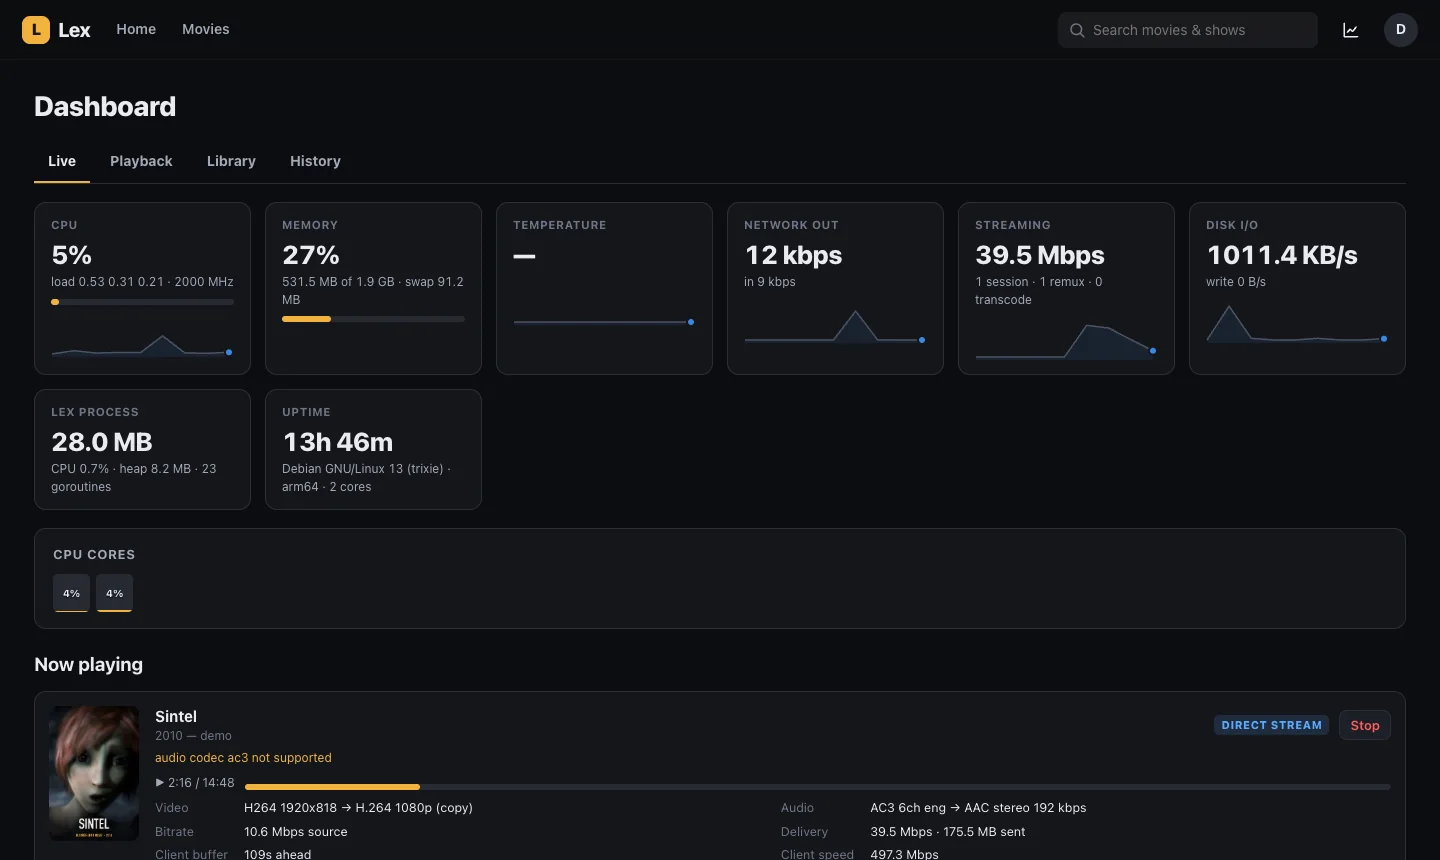
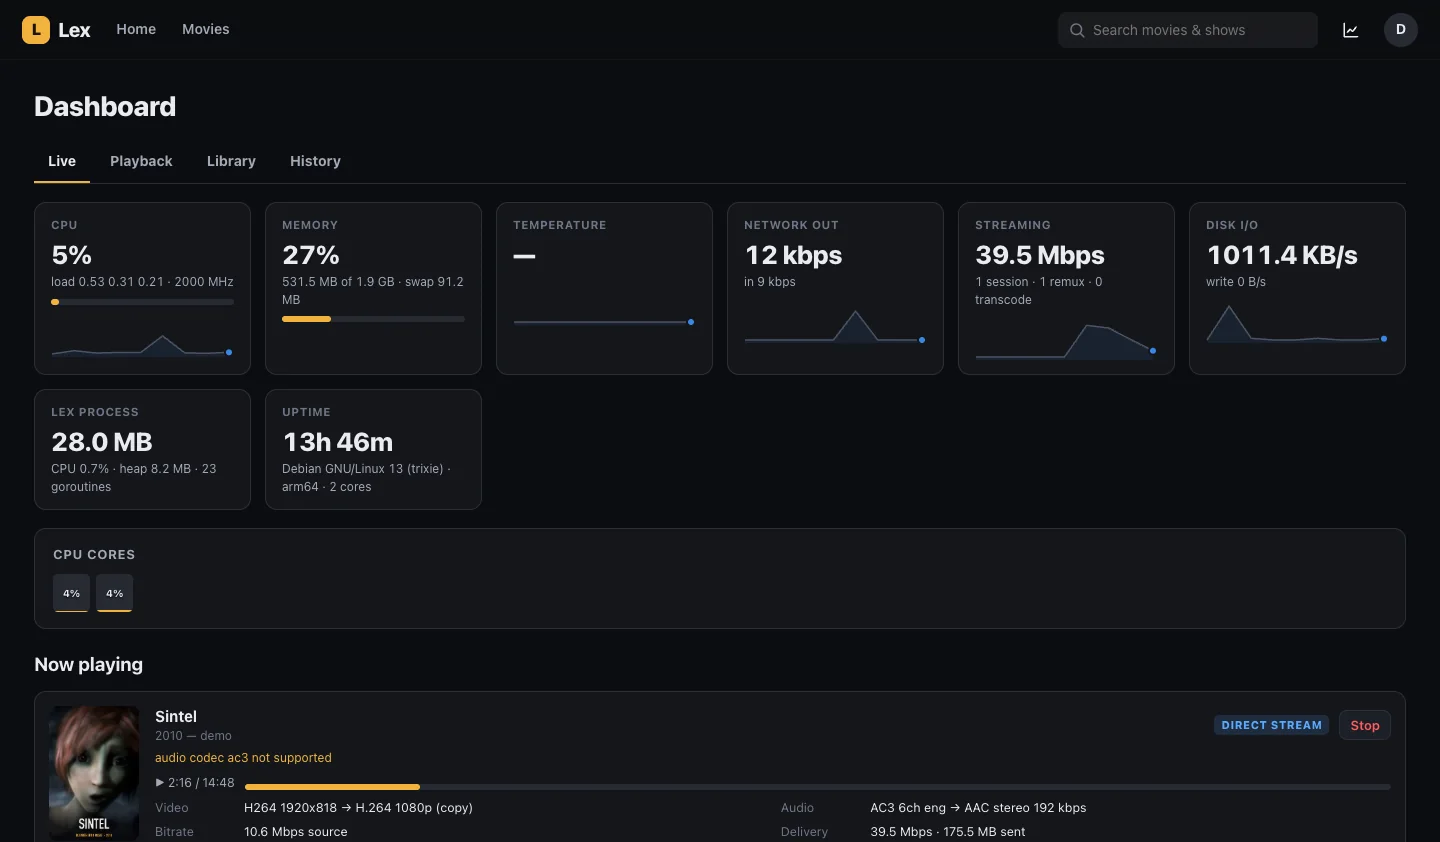
Lay out README screenshots as full-width and paired images
GitHub tables add an empty header row and misalign images of different
heights.

diff --git a/README.md b/README.md
@@ -9,12 +9,33 @@ in the binary. macOS can be used for local development.
 
 ## Screenshots
 
-| | |
-|---|---|
-| ![Movie details](docs/screenshots/movie.webp) **Details** – artwork, overview, file and stream info | ![Player with stats for nerds](docs/screenshots/player-stats.webp) **Stats for nerds** – why a file is remuxed, buffer health, server ffmpeg state |
-| ![Subtitles and audio menu](docs/screenshots/player-subtitles.webp) **Subtitles & audio** – track choice, timing offset, size, position | ![Player settings menu](docs/screenshots/player-settings.webp) **Player settings** – quality, playback method, speed |
-| ![Seek-bar preview](docs/screenshots/seek-preview.webp) **Seek previews** – thumbnails while hovering the seek bar | ![Dashboard](docs/screenshots/dashboard.webp) **Dashboard** – host load, live streams and what each one costs |
-| ![Transcoding settings](docs/screenshots/settings.webp) **Settings** – playback methods, encoder and limits | |
+**Details** – artwork, overview, and the file's video, audio and subtitle tracks.
+
+![Movie details](docs/screenshots/movie.webp)
+
+**Player** – subtitles & audio menu with timing offset, size and position (left);
+player settings for quality, playback method and speed (right).
+
+<p>
+  <img src="docs/screenshots/player-subtitles.webp" width="49%" alt="Subtitles and audio menu">
+  <img src="docs/screenshots/player-settings.webp" width="49%" alt="Player settings menu">
+</p>
+
+**Stats for nerds** – why a file is remuxed, buffer health and the server's
+ffmpeg state (left); seek-bar thumbnails (right).
+
+<p>
+  <img src="docs/screenshots/player-stats.webp" width="49%" alt="Player with stats for nerds">
+  <img src="docs/screenshots/seek-preview.webp" width="49%" alt="Seek-bar preview">
+</p>
+
+**Admin** – live dashboard with host load and what each stream costs (left);
+transcoding settings (right).
+
+<p>
+  <img src="docs/screenshots/dashboard.webp" width="49%" alt="Dashboard">
+  <img src="docs/screenshots/settings.webp" width="49%" alt="Transcoding settings">
+</p>
 
 <sub>Screenshots use the Blender Foundation's open movies *Sintel*, *Tears of
 Steel*, *Big Buck Bunny*, *Elephants Dream* and *Caminandes: Gran Dillama*
